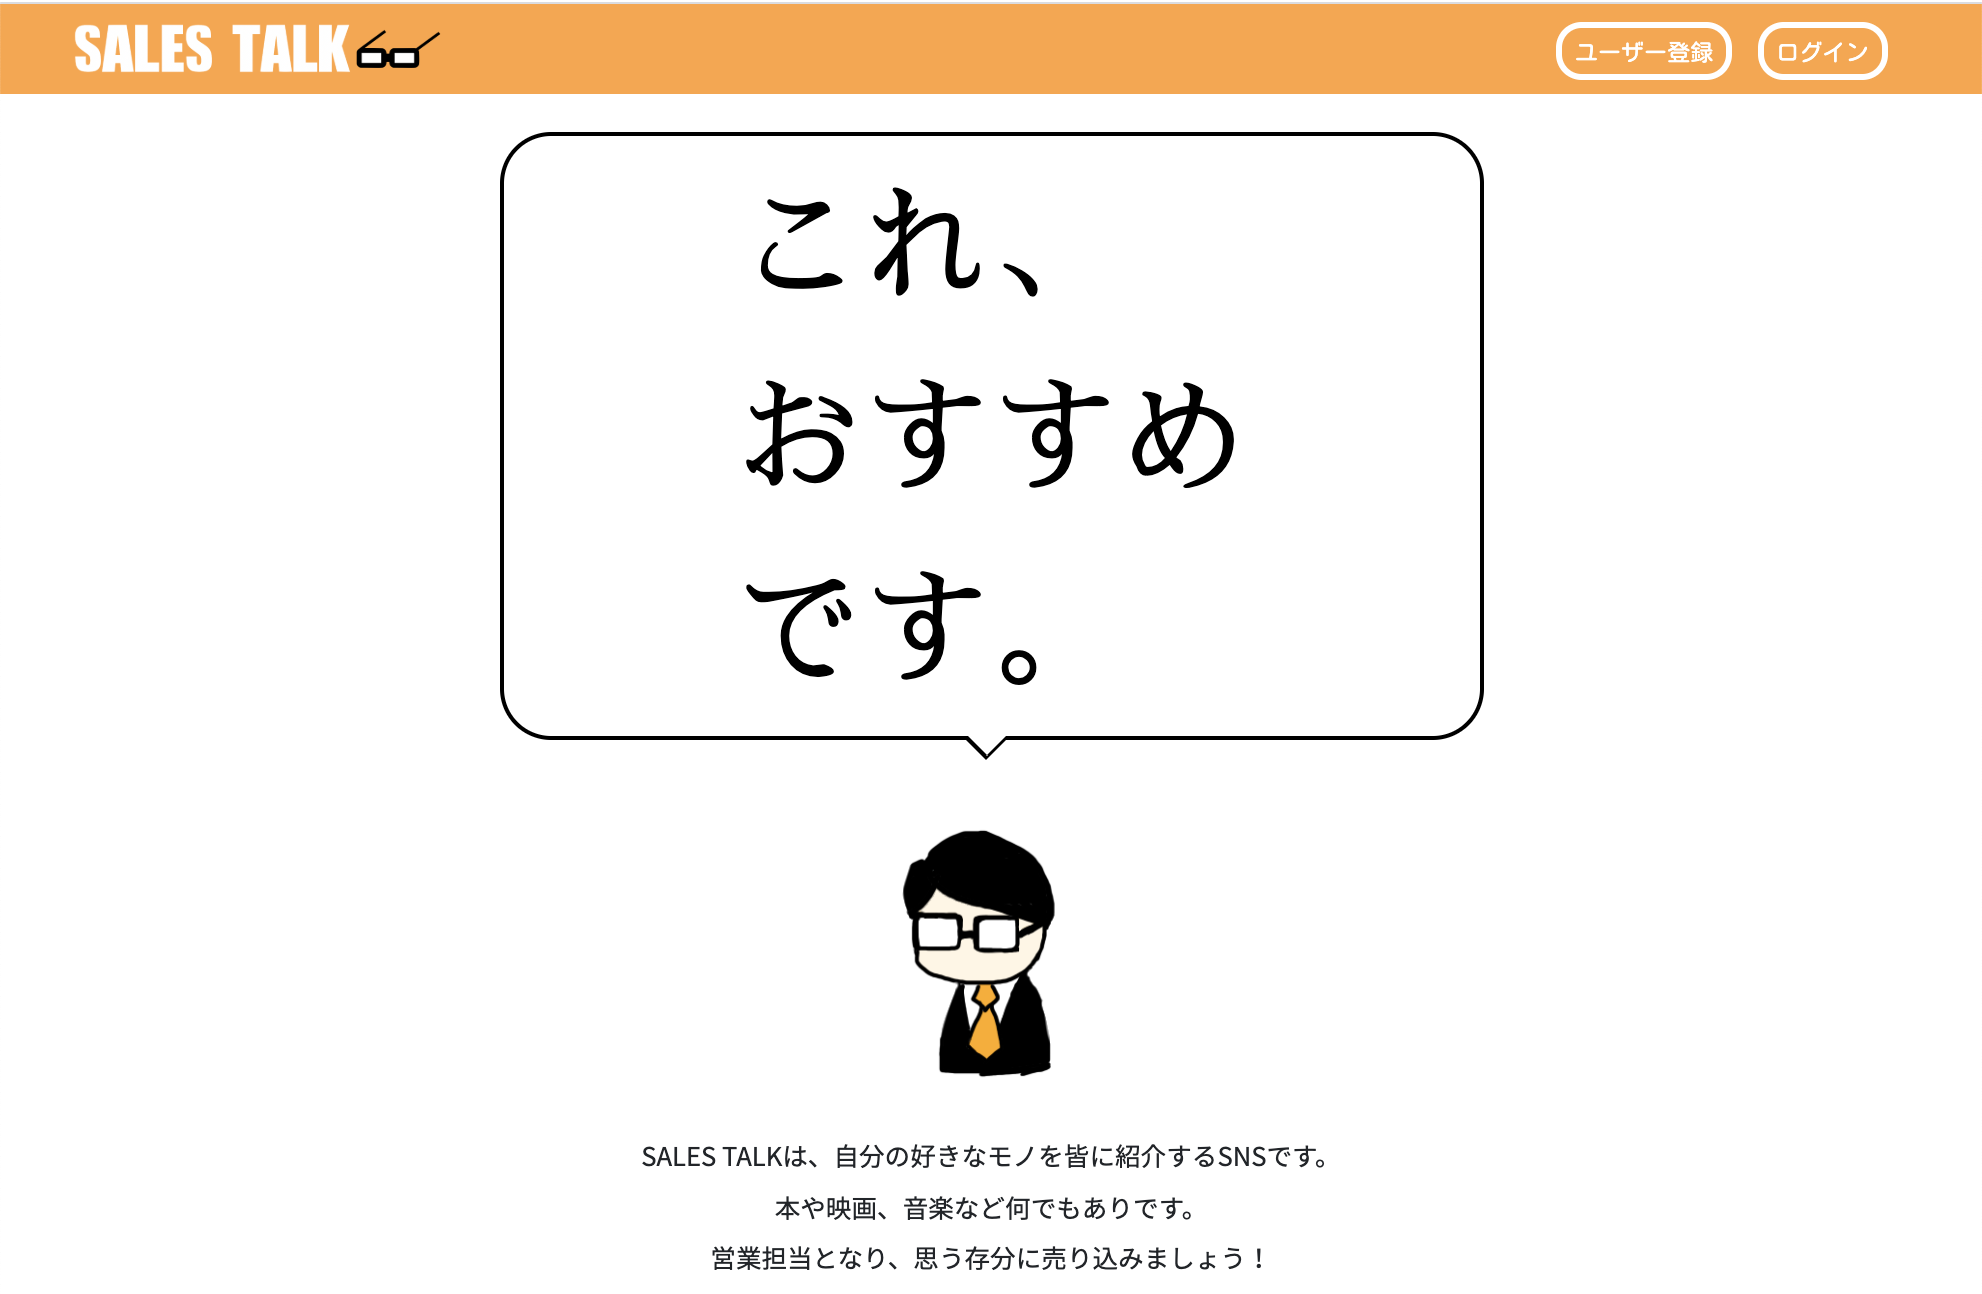
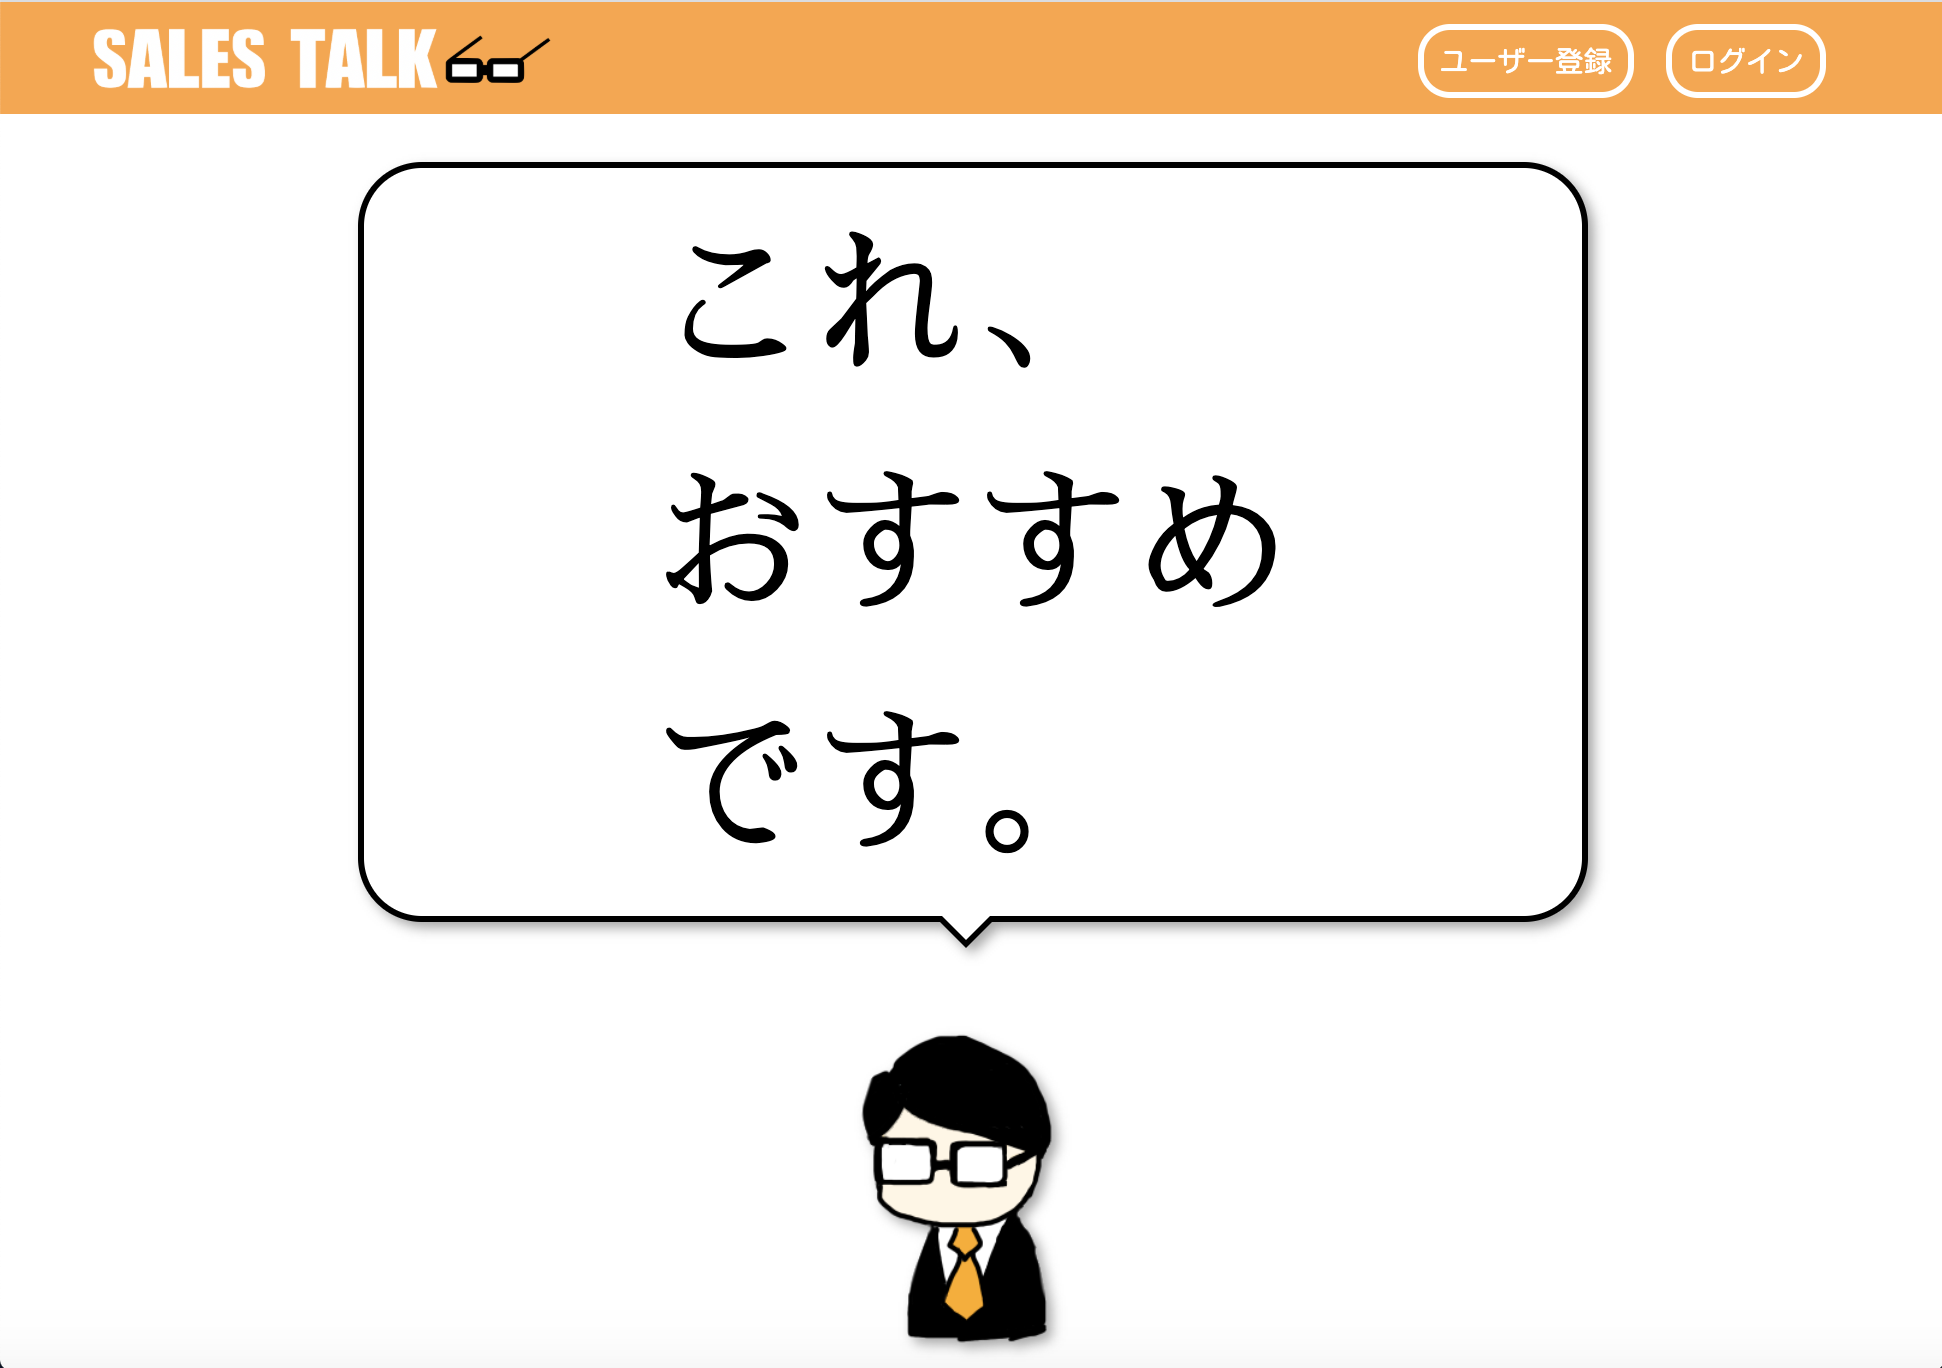
updating layouts

diff --git a/app/assets/stylesheets/application.scss b/app/assets/stylesheets/application.scss
@@ -244,6 +244,7 @@ a{
   border: solid 3px black;
   border-radius: 2rem;
   box-sizing: border-box;
+  filter: $drop-shadow;
 }
 
 .balloon:before {
@@ -287,6 +288,7 @@ a{
     width: 13rem;
     height: 13rem;
     margin-bottom: 1rem;
+    filter: $drop-shadow;
   }
   .introduce{
     margin-bottom: 0.5rem;
@@ -536,13 +538,16 @@ a{
     @include btn_option;
   }
   #user_remove_picture{
-    margin-right: 0.5rem;
     cursor: pointer;
   }
-  .remove_picture_btn{
-    display: flex;
+  .remove_checkbox{
     justify-content: center;
-    align-items: center;
+    label{
+      padding-left: unset;
+      margin: 1rem 0 0;
+      background-color: unset;
+      color: black;
+    }
   }
   #user_picture{
     display: none;
@@ -602,6 +607,27 @@ a{
   background-color: $main-color3;
   border-color: $main-color3;
 }
+
+/*  ------------------------------------------------  ユーザー一覧 users#index ---------------------------------------------*/
+.user_box{
+  display: flex;
+  justify-content: space-between;
+  align-items: center;
+  width: 60%;
+  margin: 0.5rem auto 2rem;
+  border-bottom: solid;
+  border-width: 0.1rem;
+  border-color: rgb(138, 138, 138);
+  .user-icon{
+    @include basic_icon;
+    border-radius: 0.7rem;
+    border-width: 0.15rem;
+    width: 3rem;
+    height: 3rem;
+  }
+}
+
+
 
 /*  -----------------------------------------------------  レスポンシブ(650px)  -------------------------------------------------*/
 

diff --git a/app/controllers/users_controller.rb b/app/controllers/users_controller.rb
@@ -7,7 +7,7 @@ class UsersController < ApplicationController
   
 
   def index
-    @users = User.order(:created_at)
+    @users = User.order(:created_at).page(params[:page]).per(20)
   end
 
   def show
